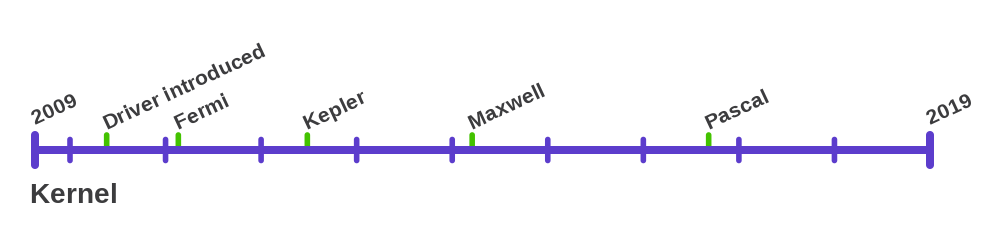
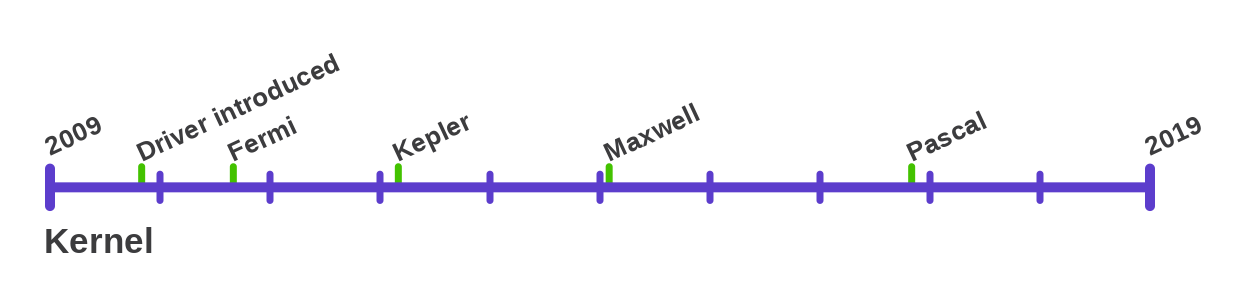
Fix layout issues

Changed region(s): [[0.031, 0.1867, 0.992, 0.7467], [0.031, 0.8089, 0.124, 0.9022]]

diff --git a/timelines.py b/timelines.py
@@ -22,7 +22,7 @@ line_style = ""
 line_border_margin = 70
 line_x1 = line_border_margin / 2.0
 line_x2 = svg_x - line_border_margin
-line_len = svg_x - 2 * line_border_margin
+line_len = svg_x - line_x1 - (svg_x - line_x2)
 line_grade_height = 15
 
 grade_width = line_width * 0.7
@@ -76,13 +76,13 @@ def writeTimelineBase(svg_document, span):
 
     year_start = int(span[0])
     year_end = int(span[1])
-    nbr_grades = year_end - year_start - 1
+    nbr_grades = year_end - year_start
 
     if nbr_grades < 2:
         return
 
     for pos in range(0, nbr_grades):
-        x_pos = line_border_margin + (line_len/nbr_grades) * pos
+        x_pos = line_x1 + (line_len/nbr_grades) * pos
         line = svg_document.line(start = (x_pos, svg_y_mid - grade_height),
                                  end   = (x_pos, svg_y_mid + grade_height),
                                  stroke_width = grade_width,
@@ -130,7 +130,7 @@ def writeTimelineItem(svg_document, span, item, color):
     
     print("writeTimelineItem: Year: {}, Month: {}, Monthspan: {}, Monthidx: {}, item_x_pos: {}".format(item_year, item_month, month_span, month_idx, item_x_pos))
 
-    svg_document.add(svg_document.line(start = (peg_x_pos, svg_y_mid - line_grade_height),
+    svg_document.add(svg_document.line(start = (peg_x_pos, svg_y_mid - line_grade_height*1.1),
                                        end   = (peg_x_pos, svg_y_mid),
                                        stroke_width = grade_width,
                                        stroke = color,
@@ -330,7 +330,7 @@ timelines = [
                 ("Reverse Engineering", [
                     ("2012-12", "etna_viv", "Initial commit"),
                     ("2013-03", "etna_viv", "GC2000"),
-                    ("2016-10", "etna_viv", "GC3000"),
+                    ("2016-01", "etna_viv", "GC3000"),
                     ("2017-10", "etna_viv", "GC7000"),
                 ]),
         ]
